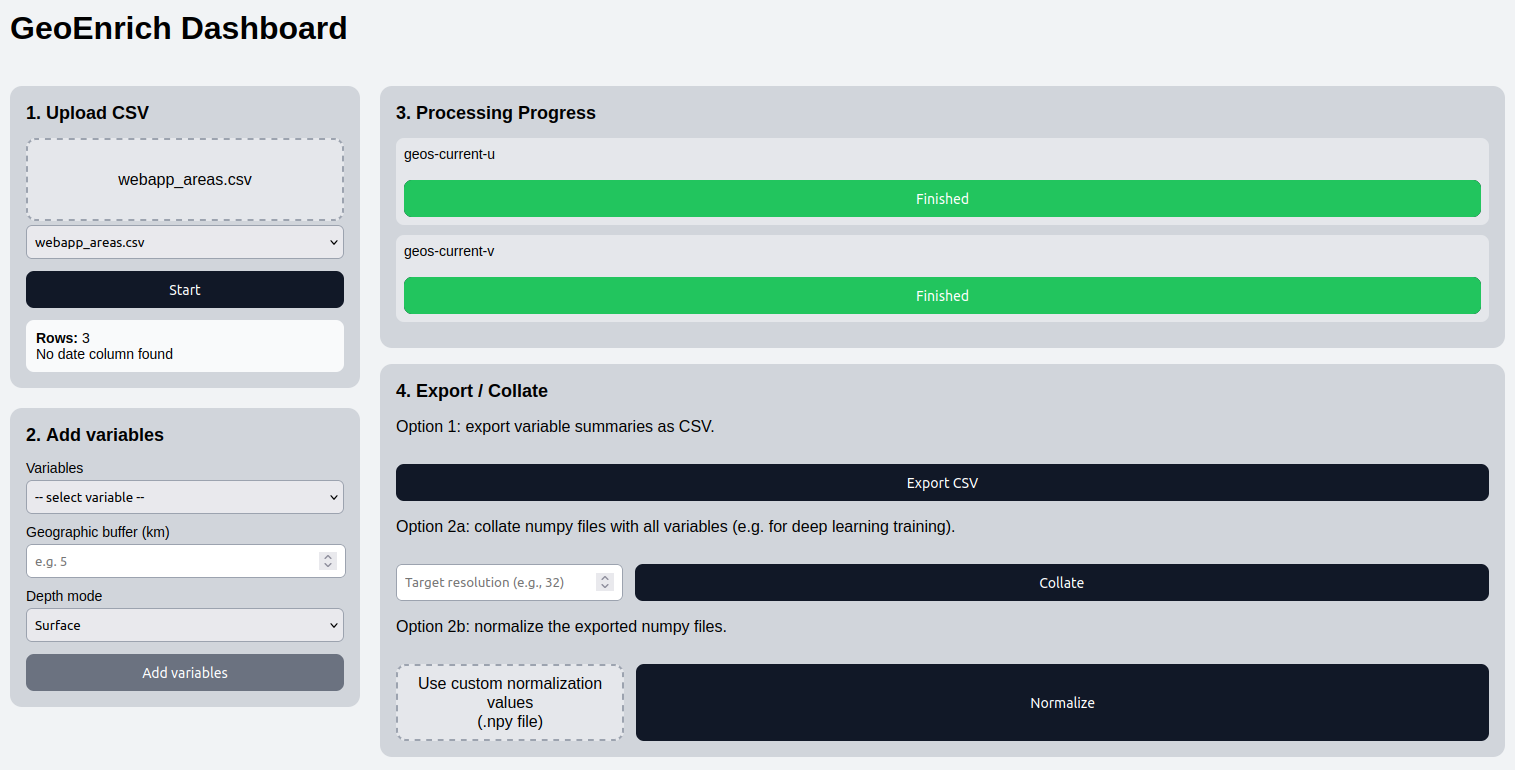
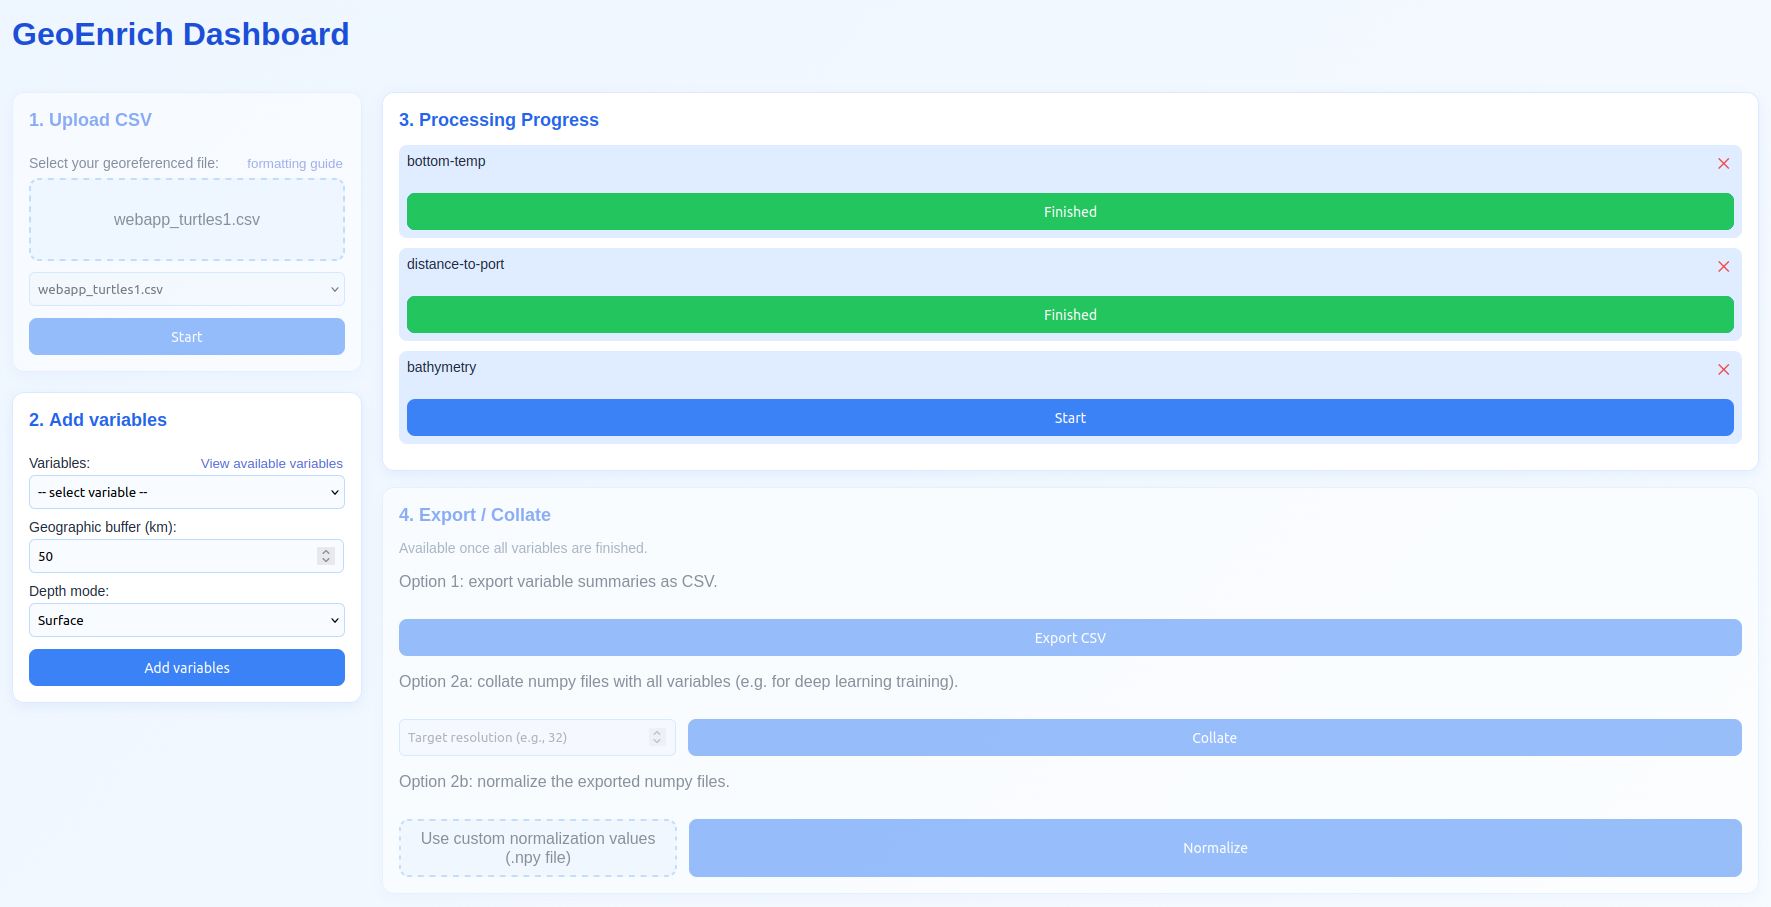
modified:   ../geoenrich/data/geoenrich_dashboard_screenshot.png 	modified:   app/main.py 	modified:   app/static/js/dashboard.js 	modified:   app/static/js/socket_listeners.js 	modified:   app/static/styles/dashboard.css 	modified:   app/templates/dashboard.html

diff --git a/geoenrich_dashboard/app/static/js/dashboard.js b/geoenrich_dashboard/app/static/js/dashboard.js
@@ -292,17 +292,29 @@ function unlockSection4IfReady() {
 
   if (allFinished) {
       document.getElementById("section4").classList.remove("locked");
+      document.getElementById("exportCsvBtn").disabled = false;
       document.getElementById("collateBtn").disabled = false;
       document.getElementById("section4").querySelector('.muted').style.display = "none";
       fetch("/checkExported");
   }
   else {
       document.getElementById("section4").classList.add("locked");
+      document.getElementById("exportCsvBtn").disabled = true;
       document.getElementById("collateBtn").disabled = true;
       document.getElementById("section4").querySelector('.muted').style.display = "block";
   }
   updateCollateButton();
 }
+
+document.getElementById("exportCsvForm").addEventListener('submit', async (e) => {
+    e.preventDefault();
+    fetch("/prepare_csv_export")
+        .then(response => response.json())
+        .then(data => {
+            csvexportTaskId = data.task_id;
+        });
+});
+
 
 document.getElementById('collateForm').addEventListener('submit', async (e) => {
         e.preventDefault(); // Prevent page reload
@@ -312,6 +324,30 @@ document.getElementById('collateForm').addEventListener('submit', async (e) => {
         });
         collateBtn.disabled = true;
     });
+
+
+
+
+document.getElementById('normform').addEventListener('submit', async (e) => {
+        e.preventDefault(); // Prevent page reload
+        const response = await fetch('/normalizeData', {
+            method: 'POST',
+            body: new FormData(e.target)
+        });
+        normalizeBtn.disabled = true;
+    });
+
+
+
+
+
+
+
+
+
+
+
+
 
 
 
@@ -343,30 +379,16 @@ function handleFile2(file) {
   normalizeBtn.disabled = false;
 }
 
-document.getElementById('normform').addEventListener('submit', async (e) => {
-        e.preventDefault(); // Prevent page reload
-        const response = await fetch('/normalizeData', {
-            method: 'POST',
-            body: new FormData(e.target)
-        });
-        normalizeBtn.disabled = true;
-    });
+
 
 //modal Js
-const exportBtn = document.getElementById("exportCsvBtn");
 const modal = document.getElementById("csvModal");
 const closeModalBtn = document.getElementById("closeModalBtn");
 const downloadBtn = document.getElementById("downloadCsvBtn");
 const previewTable = document.getElementById("csvPreviewTable");
 let csvexportTaskId = null;
 
-exportBtn.addEventListener("click", () => {
-    fetch("/prepare_csv_export")
-        .then(response => response.json())
-        .then(data => {
-            csvexportTaskId = data.task_id;
-        });
-});
+
 
 closeModalBtn.addEventListener("click", () => {
     modal.style.display = "none";

diff --git a/geoenrich_dashboard/app/static/js/socket_listeners.js b/geoenrich_dashboard/app/static/js/socket_listeners.js
@@ -27,6 +27,8 @@ document.head.appendChild(style);
 
 socket.on("enrichment_status", (data) => {
 
+  console.log("Enrichment Status:", data);
+
   if (data.status === "PENDING") {
 
     document.getElementById("section3").classList.remove("locked");
@@ -135,6 +137,8 @@ socket.on("enrichment_status", (data) => {
 
 socket.on("collation_status", (data) => {
 
+  console.log("Collation Status:", data);
+
   document.getElementById("section2").classList.add("locked");
 
   const collateBtn = document.getElementById("collateBtn");
@@ -152,18 +156,25 @@ socket.on("collation_status", (data) => {
   else if (data.status === "COMPLETED") {
 
     fill.style.width = "100%";
-    label.textContent = "Collation complete. Restart?";
+    label.textContent = "Collation complete. Collate again?";
     collateBtn.disabled = false;
     normalizeBtn.disabled = false;
 
     document.getElementById("section2").classList.remove("locked");
     document.getElementById("section3").classList.remove("locked");
     }
-
+  else if (data.status === "RESET") {
+    fill.style.width = "0%";
+    label.textContent = "Collate";
+    collateBtn.disabled = false;
+    normalizeBtn.disabled = true;
+  }
 });
 
 
 socket.on("normalization_status", (data) => {
+
+  console.log("Normalization Status:", data);
 
   const normalizeBtn = document.getElementById("normalizeBtn");
   const collateBtn = document.getElementById("collateBtn");
@@ -191,7 +202,7 @@ socket.on("normalization_status", (data) => {
 
   else if (data.status === "COMPLETED") {
     fill.style.width = "100%";
-    label.textContent = "Normalization complete. Restart?";
+    label.textContent = "Normalization complete. Normalize again?";
     collateBtn.disabled = false;
     normalizeBtn.disabled = false;
     }
@@ -201,6 +212,8 @@ socket.on("normalization_status", (data) => {
 
 
 socket.on("csvexport_status", (data) => {
+
+  console.log("CSV Export Status:", data);
 
   const exportCsvBtn = document.getElementById("exportCsvBtn");
   const fill = exportCsvBtn.querySelector(".fill");
@@ -216,7 +229,7 @@ socket.on("csvexport_status", (data) => {
 
   else if (data.status === "COMPLETED") {
     fill.style.width = "100%";
-    label.textContent = "CSV export complete. Restart?";
+    label.textContent = "CSV export complete. Export again?";
     exportCsvBtn.disabled = false;
     
     fetch("/get_csv_export_preview/<task_id>".replace("<task_id>", csvexportTaskId))

diff --git a/geoenrich_dashboard/app/templates/dashboard.html b/geoenrich_dashboard/app/templates/dashboard.html
@@ -95,18 +95,20 @@
                 <div class="export-actions">
 
                     <p>Option 1: export variable summaries as CSV.</p>
-                    <div class="sidebysidecontainer">
-                        <button class="inputfillbutton" type="button" id="exportCsvBtn">
-                            <div class="fill" style="width:0%"></div>
-                            <span class="label">Export CSV</span>
-                        </button>
-                    </div>
+                    <form id="exportCsvForm" method="GET" action="/prepare_csv_export" enctype='application/x-www-form-urlencoded'>
+                        <div class="sidebysidecontainer">
+                            <button class="inputfillbutton" type="submit" id="exportCsvBtn">
+                                <div class="fill"></div>
+                                <span class="label">Export CSV</span>
+                            </button>
+                        </div>
+                    </form>
 
                     <form id="collateForm" method="POST" action="/collateData" enctype='application/x-www-form-urlencoded'>
                         <p>Option 2a: collate numpy files with all variables (e.g. for deep learning training).</p>
                         <div class="sidebysidecontainer">
                             <input type="number" id="resInput" name="resInput" placeholder="Target resolution (e.g., 32)"/>
-                            <button class="inputfillbutton" type = 'submit' id="collateBtn" disabled>
+                            <button class="inputfillbutton" type ="submit" id="collateBtn" disabled>
                                 <div class="fill"></div>
                                 <span class="label">Collate</span>
                             </button>

diff --git a/geoenrich_dashboard/app/static/styles/dashboard.css b/geoenrich_dashboard/app/static/styles/dashboard.css
@@ -441,7 +441,6 @@ select {
 input:focus,
 select:focus {
   border-color: #3b82f6;
-  background: #ffffff;
   box-shadow: 0 0 0 2px rgba(59, 130, 246, 0.15);
 }
 

diff --git a/geoenrich_dashboard/app/main.py b/geoenrich_dashboard/app/main.py
@@ -374,11 +374,16 @@ def verifyfilenumber(ds_ref):
     out_path.mkdir(exist_ok=True, parents=True)
 
     filelist = list((out_path / (ds_ref + '-npy')).glob('*.npy'))
-    csv, _  = load_enrichment_file(ds_ref)
+    csv, metadata  = load_enrichment_file(ds_ref)
 
-    if len(filelist) == len(csv):
+    with open(out_path / (ds_ref + '_metadata.npy'), 'r') as fp:
+        linecount = sum(1 for line in fp)
+
+    if linecount == len(metadata['enrichments']) and len(filelist) == len(csv):
         socketio.emit('collation_status', {'enrichment_id':  'collation', 'status': "COMPLETED", 'progress': 100})
 
+    else:
+        socketio.emit('collation_status', {'enrichment_id':  'collation', 'status': "RESET"})   
     return '', 200
 
 
@@ -417,7 +422,7 @@ def export_variable(ds_ref, enrichment):
     dimdict, var = get_metadata(ds, var_source['varname'])
 
     print('Computing stats for ' + var_id + '...')
-    res = df.progress_apply(compute_stats, axis=1, args = (enrichment['parameters'], input_type, var_ind, ds, dimdict, var),
+    res = df.apply(compute_stats, axis=1, args = (enrichment['parameters'], input_type, var_ind, ds, dimdict, var),
                                     result_type = 'expand')
     ds.close()
 